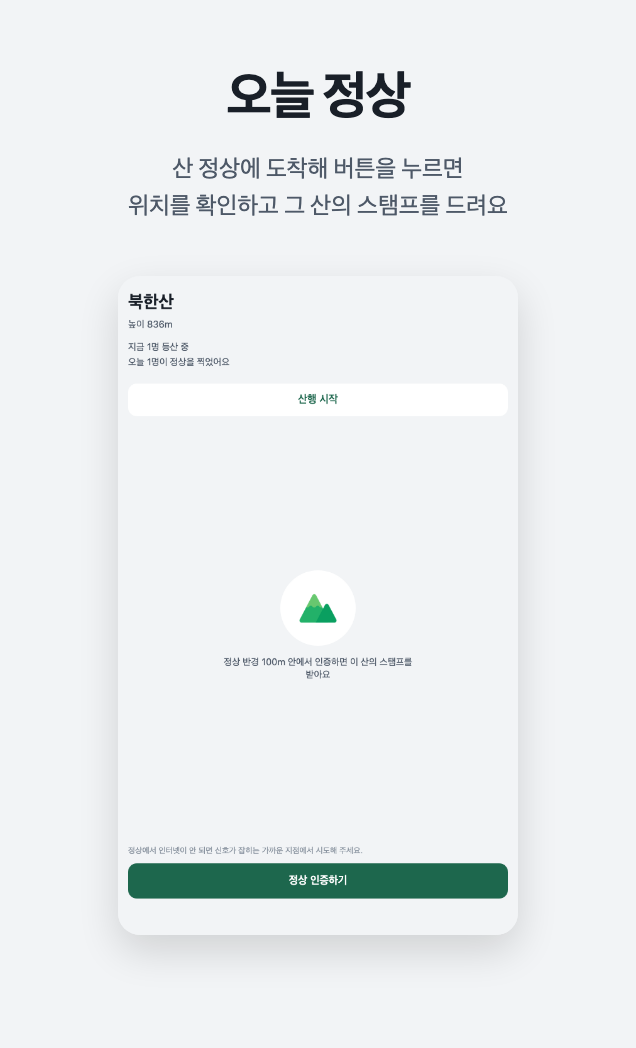
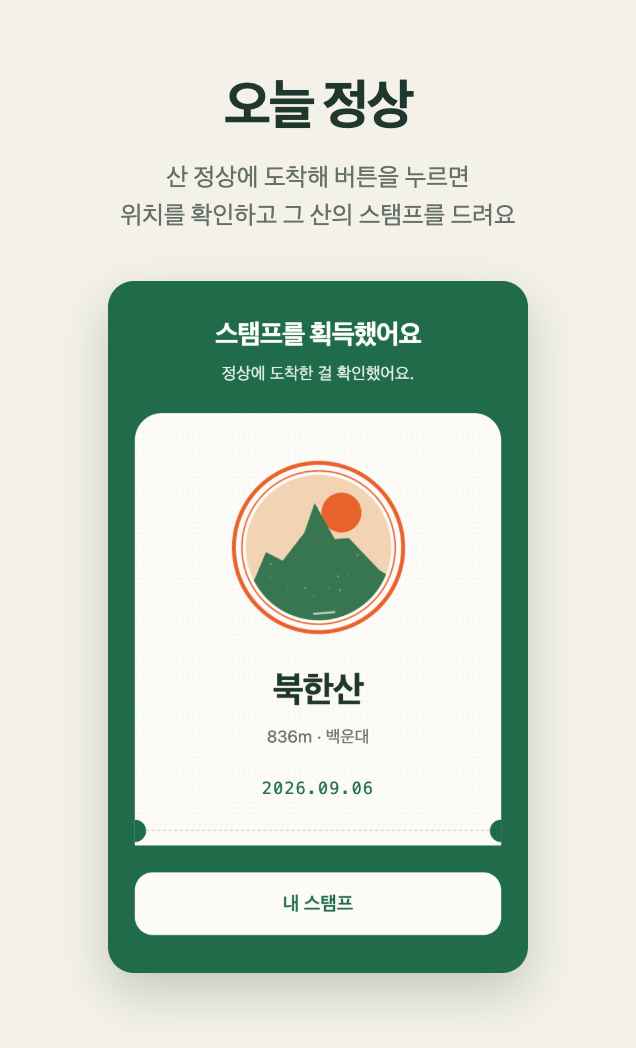
출시 전 정리 — 테스트 장소 제거, 등록용 스크린샷 새 디자인으로 교체

diff --git a/SESSIONS.md b/SESSIONS.md
@@ -341,6 +341,18 @@ trailheads가 빈 산엔 버튼 없음. 시작 없이 정상 인증 성공.
 - 스크린샷 검증은 헤드리스 Chrome에 `localStorage['__ait_storage:today-peak.session']`으로 토큰을 넣고
   `window.__ait._state.location.coords`를 바꿔 실제 인증 흐름을 돌리는 방식. 스크래치패드 `shot.mjs`.
 
+### 출시 전 정리 (2026-09-06)
+
+- `supabase secrets unset TEST_PLACES` 완료. `src/data/test-places.json`은 저장소 밖(스크래치패드)으로 옮겼다.
+  빌드 결과에 `[테스트]`·`test-home` 문자열이 없는 것을 확인. 목록 96곳, 실측 각주 자동 소멸.
+- DB 테스트 행: stamps 9(+검증 캡처 중 생긴 북한산 1), hike_starts 1, peak_suggestions 3. **삭제 SQL은 자동 모드
+  분류기가 막아서 사용자가 직접 실행한다.** `unlinked_users` 1행은 정상 상태라 남긴다.
+- 등록용 스크린샷 6장을 새 디자인으로 다시 만들었다(`assets/screenshot-1~6`). 375×618 뷰포트를 dsf 1.696으로
+  찍어 636×1048 정확히. 인트로 카드는 `reg/intro.html`(종이색 배경 + 성공 티켓). 콘솔 교체는 앱정보 재검토를
+  부르므로 사용자 결정.
+- 릴리즈 판정: `reviewRequestDecision=ALLOWED`, `releaseDecision=WORKSPACE_TERMS_AGREEMENT_REQUIRED_FROM_OWNER`
+  → 번들 검수 요청은 가능하지만 **출시하기 전에 대표관리자가 콘솔 웹에서 제휴 약관에 동의**해야 한다.
+
 ## 백로그 — 데이터 검증 (출시 전, 사람이 확인)
 
 `node scripts/build-mountains.mjs`가 매번 같은 리포트를 낸다. 고치는 방법은 스크립트의 정상 선택 규칙에
